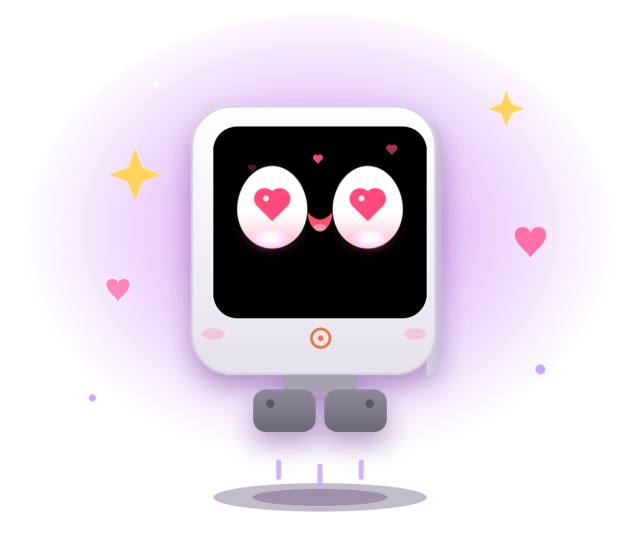
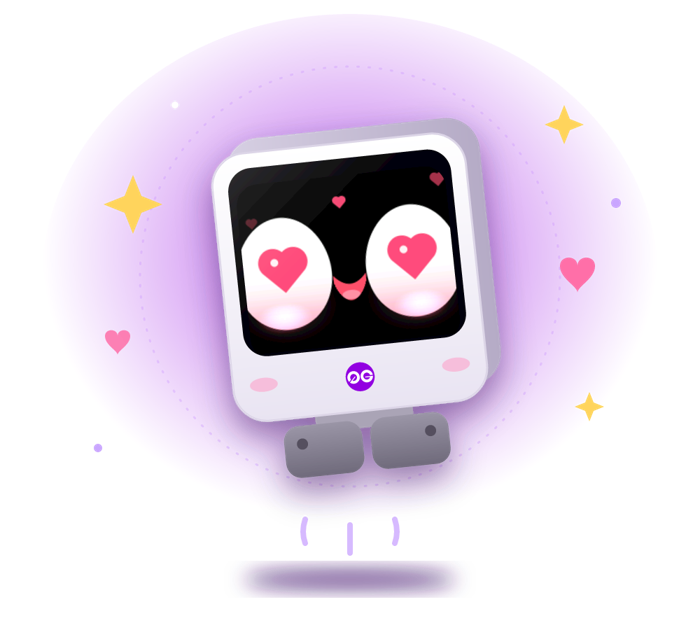
A better Floaty illustration: centred face, depth, stronger 0G glow, 0G mark (#7)

diff --git a/README.md b/README.md
@@ -1,6 +1,6 @@
 <div align="center">
 
-<img src="docs/floaty.png" alt="Floaty, a little robot with heart eyes, floating" width="360">
+<img src="docs/floaty.png" alt="Floaty, a little robot with heart eyes, floating" width="380">
 
 # Project Floaty
 
